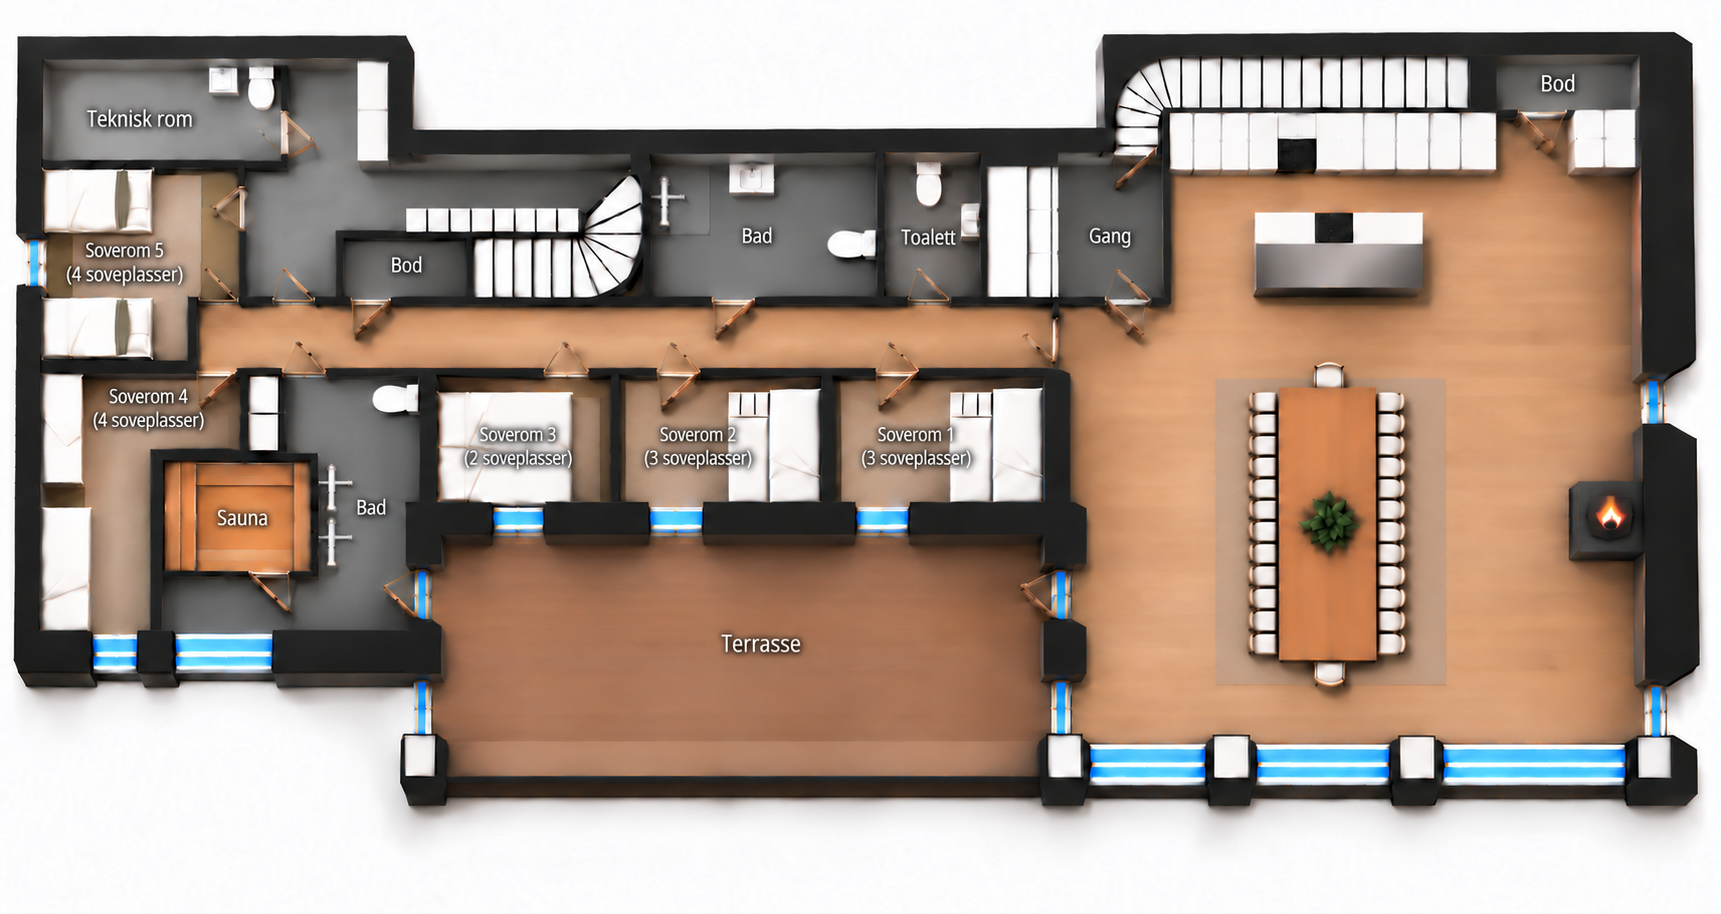
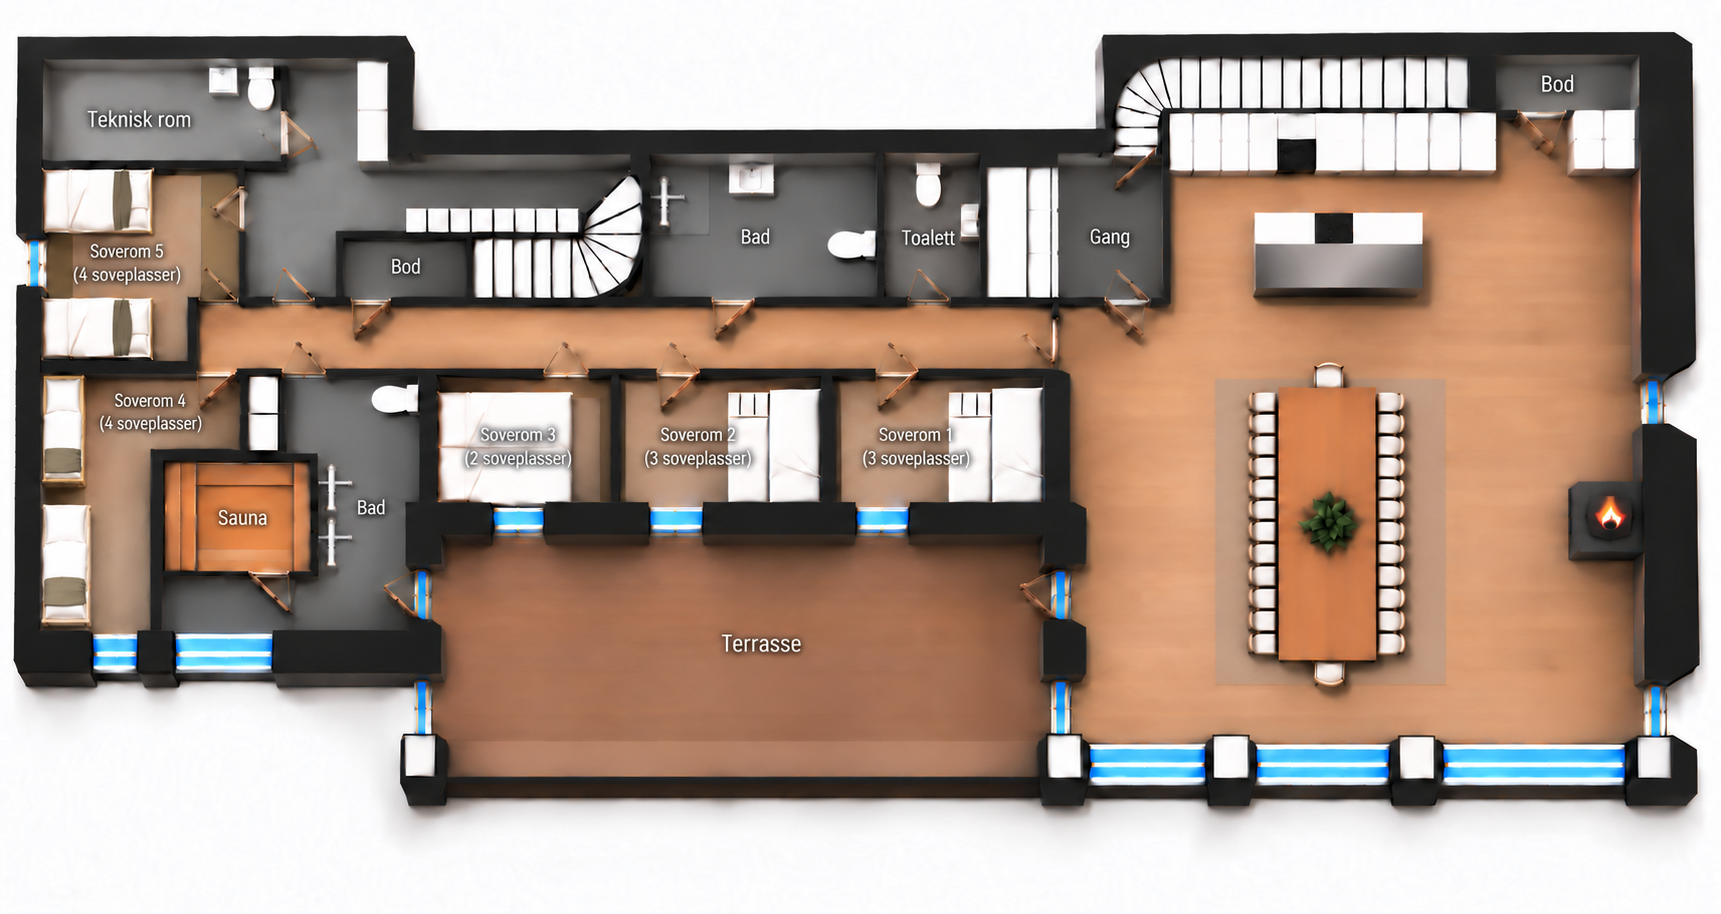
Refine lower-floor bedrooms and reorder tour introduction

diff --git a/src/components/ConceptPages.tsx b/src/components/ConceptPages.tsx
@@ -970,11 +970,11 @@ export function RetreatDetailPage({ page }: { page: RetreatPageKey }) {
       <div className="concept-page retreat-page retreat-detail-page" data-page={page}>
         <RetreatNav language={language} setLanguage={setLanguage} page={page} />
         <main className="retreat-tour-page">
+          <FloorPlans language={language} />
           <section className="retreat-tour-intro">
-            <div><p>08 · TURU CROWN</p><h1>{language === "nb" ? <>Gå gjennom<br />Turu Crown.</> : <>Walk through<br />Turu Crown.</>}</h1></div>
+            <div><p>Turu Crown</p><h1>{language === "nb" ? <>Gå gjennom<br />Turu Crown.</> : <>Walk through<br />Turu Crown.</>}</h1></div>
             <div><p>{language === "nb" ? "Utforsk rommene, planløsningen og utsikten i en interaktiv 3D-visning. Beveg deg mellom alle tre nivåer og opplev hvordan hytta henger sammen før dere kommer." : "Explore the rooms, layout and views in an interactive 3D experience. Move through all three levels and discover how the cabin connects before you arrive."}</p><span>{language === "nb" ? "Klikk i visningen og bruk musen eller fingeren for å bevege deg." : "Click inside the tour and use your mouse or finger to move around."}</span></div>
           </section>
-          <FloorPlans language={language} />
           <section className="retreat-tour-stage">
             <div className="retreat-tour-frame"><iframe title={language === "nb" ? "Interaktiv 3D-visning av Turu Crown" : "Interactive 3D tour of Turu Crown"} src="https://my.matterport.com/show/?m=Cni4Ctd7QSV" allow="autoplay; fullscreen; web-share; xr-spatial-tracking" allowFullScreen /></div>
             <div className="retreat-tour-caption"><div><span>360°</span><p>{language === "nb" ? "Hele hytta, rom for rom" : "The entire cabin, room by room"}</p></div><a href="https://my.matterport.com/show/?m=Cni4Ctd7QSV" target="_blank" rel="noreferrer">{language === "nb" ? "ÅPNE 3D-VISNING I FULLSKJERM" : "OPEN 3D TOUR FULL SCREEN"} ↗</a></div>

diff --git a/src/app/globals.css b/src/app/globals.css
@@ -1492,7 +1492,7 @@ footer p { margin: 15px 0 0; font-size: 12px; }
 .retreat-tour-intro > div:last-child p { color: #d6dadd; font-size: clamp(1rem, 1.5vw, 1.3rem); line-height: 1.75; }
 .retreat-tour-intro > div:last-child span { display: block; margin-top: 1.5rem; color: #8f9aa4; font-size: .72rem; line-height: 1.6; }
 .retreat-tour-stage { padding: 0 clamp(.5rem, 2vw, 2rem) clamp(7rem, 10vw, 11rem); }
-.retreat-floor-plans { padding: 0 clamp(1.4rem, 7vw, 8rem) clamp(4rem, 7vw, 7rem); }
+.retreat-floor-plans { padding: clamp(2rem, 4vw, 4rem) clamp(1.4rem, 7vw, 8rem) 0; }
 .retreat-floor-plans-heading { display: flex; justify-content: space-between; align-items: end; gap: 2rem; margin-bottom: 2rem; }
 .retreat-floor-plans-heading > div > p { color: #d8b687; font-size: .65rem; font-weight: 800; letter-spacing: .15em; }
 .retreat-floor-plans-heading h2 { margin: .75rem 0 0; font-family: var(--serif); font-size: clamp(2.5rem, 4vw, 4.5rem); font-weight: 400; line-height: 1.05; }

diff --git a/docs/floor-plans.md b/docs/floor-plans.md
@@ -1,5 +1,28 @@
 # Three floor plans
 
+## Lower-floor beds, hallway lettering and tour section order, 30 October 2026
+
+Lower-floor bedroom labels use the same font-size reference as Gang/Hallway in the same drawing. Both beds in bedroom4 now use the pale wood frame, ivory bedding, pillows and muted throw design from bedroom5, retaining their two existing vertical footprints and four sleeping places. All room labels, capacities and 26 dining chairs retained. Built-in imagegen edit mode; first font-only drafts rejected because bedroom labels became too large.
+
+Final assets:
+- `public/images/floor-plan-lower.png`: `exec-513b9c75-9dc3-4911-83d5-2e3a5f8bbc78.png`.
+- `public/images/floor-plan-lower-en.png`: `exec-66132c93-32c7-4d32-acdf-d44c9bd27c9e.png`.
+
+The page now shows floor plans first, followed by the existing Walk through/Gå gjennom introduction, then the interactive Matterport tour. Reduced floor-plan top spacing to move its heading higher. The introduction eyebrow reads only Turu Crown, without the former 08 prefix.
+
+Validation: lint, route types, TypeScript and production build pass. The booking suite has 20 passing tests and three existing failures: the relative test stay (today+10 through today+15) overlaps an imported FINN reservation on the current date. Booking model and tests are unchanged by this presentation update.
+
+Final Norwegian prompt:
+```text
+Use case: precise-object-edit. Full lower-floor plan is edit target. Make only TWO precise changes. (1) BEDROOM4: its TWO existing long beds along far-left exterior wall must have the SAME bed-frame and bedding DESIGN as the two beds in BEDROOM5 directly above: natural pale wood frames, soft ivory duvets, plump white pillows and muted taupe/olive folded throws. Keep bedroom4 bed count exactly2 and existing locations, footprints, sizes and VERTICAL orientations; rotate the bedroom5 design to fit these existing beds. Do not enlarge beds, move walls or change4sleepingplaces. Bedroom5 itself stays untouched. (2) BEDROOM TEXT: all5 bedroom names and parenthesized capacity lines must use the EXACT same regular narrow white sans-serif SIZE as the existing hallway label in THIS drawing. Capital-letter visible height should be about14-16pixels at full1721pxcanvas width; font nominal20px, not24or28px. Preserve the hallway text exactly as reference; DO NOT enlarge it. All bedroom text lines must match each other and hallway letter-height, even if longer. Do not use large/bold lettering. Preserve label centers, two lines each. Every other label stays unchanged. Preserve all geometry, furniture, doors, windows, stairs, walls, table, EXACTLY26chairs(12eachside+1eachend), bathroom fixtures, kitchen, canvas and framing. Reference is 'Gang'. Bedroom labels exactly: Soverom 1 (3 soveplasser), Soverom 2 (3 soveplasser), Soverom 3 (2 soveplasser), Soverom 4 (4 soveplasser), Soverom 5 (4 soveplasser).
+```
+
+Final English prompt:
+```text
+Use case: precise-object-edit. Full lower-floor plan is edit target. Make only TWO precise changes. (1) BEDROOM4: its TWO existing long beds along far-left exterior wall must have the SAME bed-frame and bedding DESIGN as the two beds in BEDROOM5 directly above: natural pale wood frames, soft ivory duvets, plump white pillows and muted taupe/olive folded throws. Keep bedroom4 bed count exactly2 and existing locations, footprints, sizes and VERTICAL orientations; rotate the bedroom5 design to fit these existing beds. Do not enlarge beds, move walls or change4sleepingplaces. Bedroom5 itself stays untouched. (2) BEDROOM TEXT: all5 bedroom names and parenthesized capacity lines must use the EXACT same regular narrow white sans-serif SIZE as the existing hallway label in THIS drawing. Capital-letter visible height should be about14-16pixels at full1721pxcanvas width; font nominal20px, not24or28px. Preserve the hallway text exactly as reference; DO NOT enlarge it. All bedroom text lines must match each other and hallway letter-height, even if longer. Do not use large/bold lettering. Preserve label centers, two lines each. Every other label stays unchanged. Preserve all geometry, furniture, doors, windows, stairs, walls, table, EXACTLY26chairs(12eachside+1eachend), bathroom fixtures, kitchen, canvas and framing. Reference is 'Hallway'. Bedroom labels exactly: Bedroom 1 (Sleeps 3), Bedroom 2 (Sleeps 3), Bedroom 3 (Sleeps 2), Bedroom 4 (Sleeps 4), Bedroom 5 (Sleeps 4).
+```
+
+
 ## Mattresses against wall and loft typography reference, 30 October 2026
 
 The four shortened alcove mattresses now meet the upper inner wall, leaving free floor at their feet. Both languages updated. Main and lower floor labels now use the lighter, smaller lettering of the loft bedroom labels as the explicit reference. All room names, sleeping counts, ceiling annotations and furniture were visually checked. Built-in imagegen edit mode used for all six assets.

diff --git a/README.md b/README.md
@@ -31,7 +31,7 @@ The selected website design is the multi-page mountain-retreat presentation:
 - `/materials` — wood, surface treatment, and interior material story.
 - `/gallery` — 67 photos filtered by Alle, Hytta, Oppholdsrom and Soverom (All, Cabin, Living space and Bedrooms in English), with full-screen viewing. Source originals are unchanged, except for the requested sunny ski photo edit. See `docs/organized-gallery.md` for source folders and original-photo hosting requirements.
 - `/location` — maps, driving distances, public transport, and arrival guidance.
-- `/3d-tour` — three floor plans in a shared natural-material style, with Norwegian/English labels inside the drawings, floor selection and full-image viewing above the interactive Matterport walkthrough. See `docs/floor-plans.md` for sources and rendering notes.
+- `/3d-tour` — three floor plans in a shared natural-material style, with Norwegian/English labels inside the drawings, floor selection and full-image viewing first, followed by the walkthrough introduction and interactive Matterport tour. See `docs/floor-plans.md` for sources and rendering notes.
 - `/meetings` — company retreats and meeting facilities.
 - `/turufjell` — outdoor experiences, with an activity guide at `/turufjell/activities`.
 - `/booking` — calendar, combined linen and towels, price breakdown and direct enquiry.
